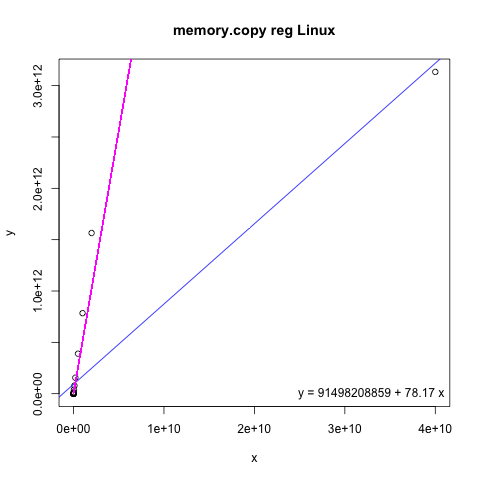
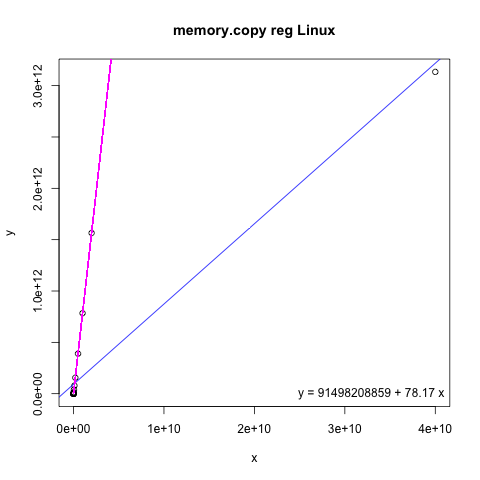
Updates.

Changed region(s): [[0.1562, 0.25, 0.25, 0.7812], [0.2188, 0.125, 0.2812, 0.25]]

diff --git a/tests/bulk_memory_estimations/memory_copy.rs b/tests/bulk_memory_estimations/memory_copy.rs
@@ -1,0 +1,48 @@
+use super::*;
+
+const MEMORY_COPY: BenchmarkData = BenchmarkData {
+  lengths: &[
+    1, 2, 5, 10, 20, 50, 100, 200, 500, 1000, 2000, 5000, 10000, 20000, 50000, 100000, 200000, 500000, 1000000, 2000000, 5000000, 10000000, 20000000, 50000000, 100000000,
+    200000000, 500000000, 1000000000, 2000000000, 4000000000,
+  ],
+  gas: &[
+    4433500,
+    4447900,
+    4448700,
+    4442500,
+    4452100,
+    4558100,
+    4570700,
+    4581700,
+    4591600,
+    4614000,
+    4623800,
+    7936800,
+    11177000,
+    17512000,
+    43075000,
+    80194000,
+    156880000,
+    386500000,
+    765290000,
+    1528700000,
+    3840800000,
+    7702000000,
+    15617000000,
+    39220000000,
+    78225000000,
+    155420000000,
+    389660000000,
+    784200000000,
+    1565000000000,
+    3133700000000,
+  ],
+  base: 4500000,
+  unit_size: 64,
+  unit_cost: 50176,
+};
+
+#[test]
+fn estimate() {
+  values(&MEMORY_COPY);
+}

diff --git a/tests/bulk_memory_estimations/mod.rs b/tests/bulk_memory_estimations/mod.rs
@@ -1,5 +1,6 @@
 mod data_drop;
 mod elem_drop;
+mod memory_copy;
 mod memory_fill;
 mod memory_grow;
 mod memory_init;
